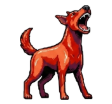
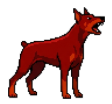
Bark Quest: swap Miles for the docked-tail sprites
The previous artwork gave Miles a long plume tail; he is a doberman with
cropped ears and a docked tail. Both stances are replaced from the new
reference's top row.

Extraction differs from last time in two ways worth knowing. The source
is a JPEG despite its .png name, so the transparency checkerboard is
baked in and carries compression ringing — the background is keyed on
"light and neutral" rather than pure white, flood-filled from each
quadrant's own border so enclosed lights survive. And this reference
already faces right, so unlike the last one it is NOT mirrored on
export.

The two dogs came out with identical leg heights, so they were already
drawn at the same scale and the body-match factor is 1.000 — the
resulting sprites differ by one body pixel. Paws now land on row 98, so
MILES_Y becomes GROUND_Y - 46, and MUZZLE_X/MUZZLE_Y move to the new
barking mouth.

Verified: zero leftover checker pixels, corners transparent, both
baselines aligned, both PNGs loading with no 404s.

Claude-Session: https://claude.ai/code/session_01XGS2jLVf1aCp5zy6jgV7NG

diff --git a/src/bark-quest.js b/src/bark-quest.js
@@ -150,11 +150,11 @@
   };
 
   const MILES_X = 80;
-  const MILES_Y = GROUND_Y - 47; // paws (row 99 of 104) land on GROUND_Y
+  const MILES_Y = GROUND_Y - 46; // paws (row 98 of 104) land on GROUND_Y
   // Where the beam leaves the barking sprite's open mouth, relative to the
   // sprite's centre. Measured off miles-bark.png, not guessed.
-  const MUZZLE_X = 26;
-  const MUZZLE_Y = -33;
+  const MUZZLE_X = 37;
+  const MUZZLE_Y = -27;
 
   const FOE_X = 300;
 

diff --git a/CLAUDE.md b/CLAUDE.md
@@ -134,17 +134,20 @@ in `index.html`, styled after a 1970s Disney title card); picking a game boots i
   supper (`dinnerTime` → `dinnerPanel`, not a "game over"): he perks up, hops,
   turns around and trots off left, and only then does the panel land, so the dim
   doesn't cover the one bit worth watching. Keep that framing for anything that
-  ends a run. Best routed count in `localStorage` (`bark-quest-best`). Both stances
+  ends a run. Best routed count in `localStorage` (`bark-quest-best`).
   The fox and wolf are drawn from primitives, but **Miles is the exception to
   the no-external-assets rule**: both stances are hand-authored pixel art at
   `src/bark-quest/miles-idle.png` and `miles-bark.png`, loaded in the scene's
   `preload()`. They ship for free because the workflow already does
-  `cp -r src _site/`. Both are the same 112x104 canvas with the paws on the
-  same row (99), which is why `MILES_Y` is `GROUND_Y - 47` and why swapping
-  texture mid-bark can neither move nor resize him — keep that invariant if
-  either sprite is ever re-cut. The source art faces left and is mirrored on
-  export, and `MUZZLE_X`/`MUZZLE_Y` are measured off the barking sprite's open
-  mouth so the beam leaves his jaws rather than his chest.
+  `cp -r src _site/`. He is a red doberman with **cropped ears and a docked
+  tail** — check the tail on any replacement art. Both stances are the same
+  112x104 canvas with the paws on the same row (98), which is why `MILES_Y` is
+  `GROUND_Y - 46` and why swapping texture mid-bark can neither move nor resize
+  him. The current source already faces right so it is **not** mirrored on
+  export (an earlier reference faced left and was), and `MUZZLE_X` / `MUZZLE_Y`
+  are measured off the barking sprite's open mouth so the beam leaves his jaws
+  rather than his chest. Re-cutting the sprites means re-checking all four: paw
+  row, `MILES_Y`, mirroring, and the muzzle.
   Its board state machine is worth knowing: `state` is one
   of `intro`/`fight`/`attack`/`flee`/`over` and input needs `fight && !busy`, so
   new effects must return the pair to that state or the board stays locked.
